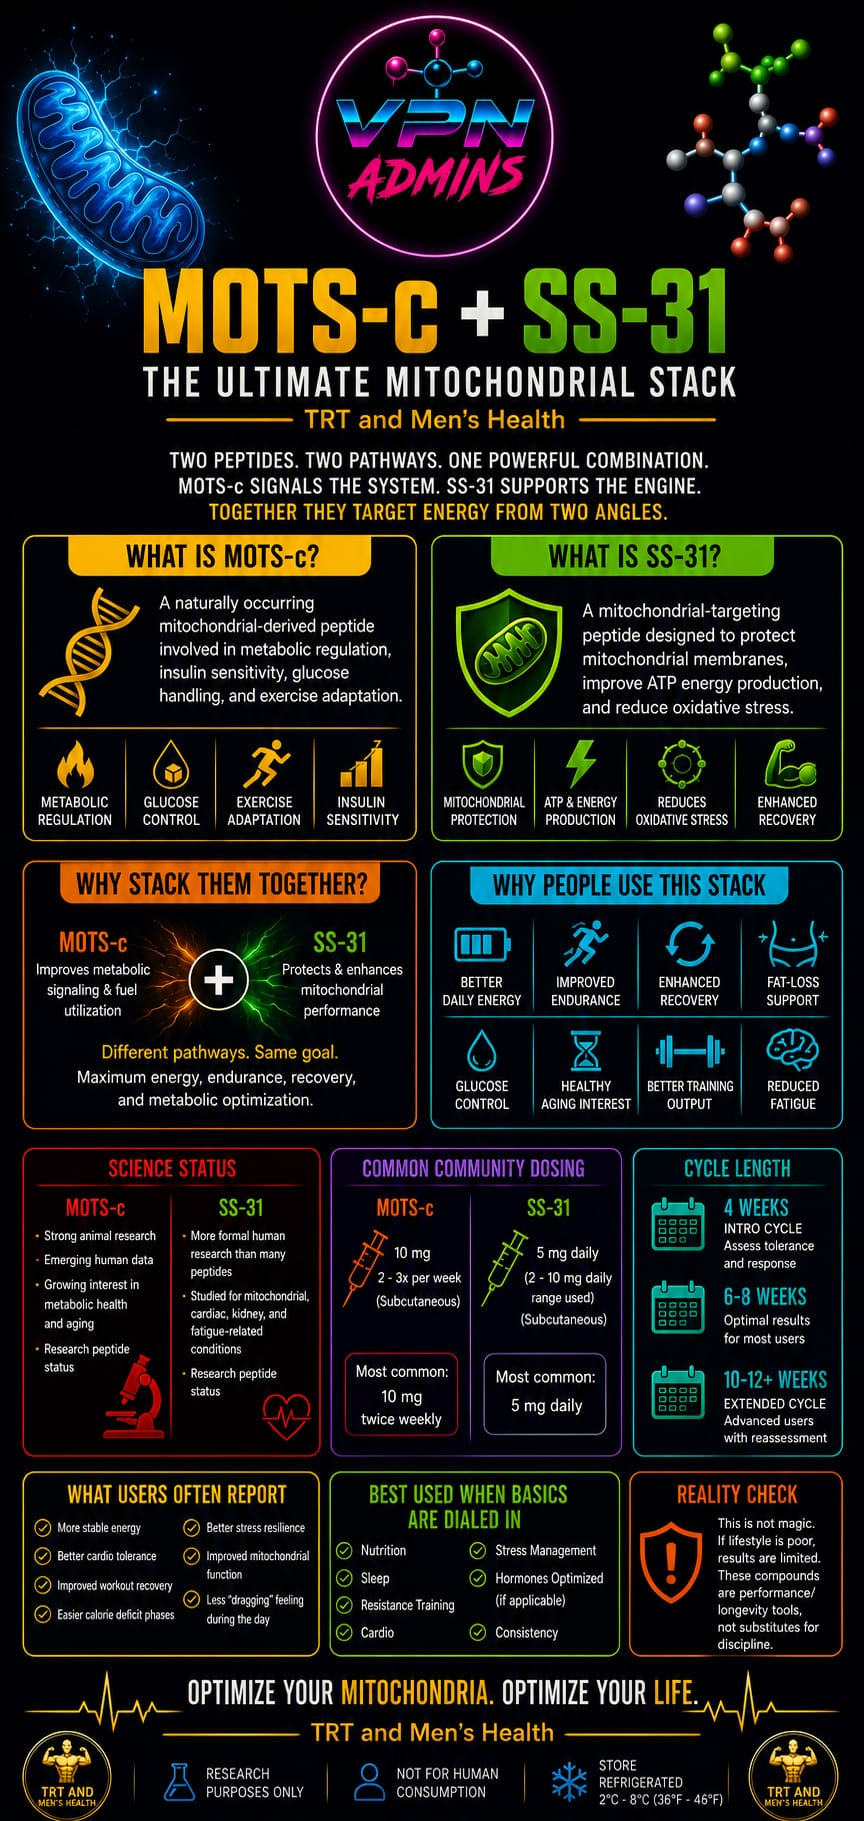
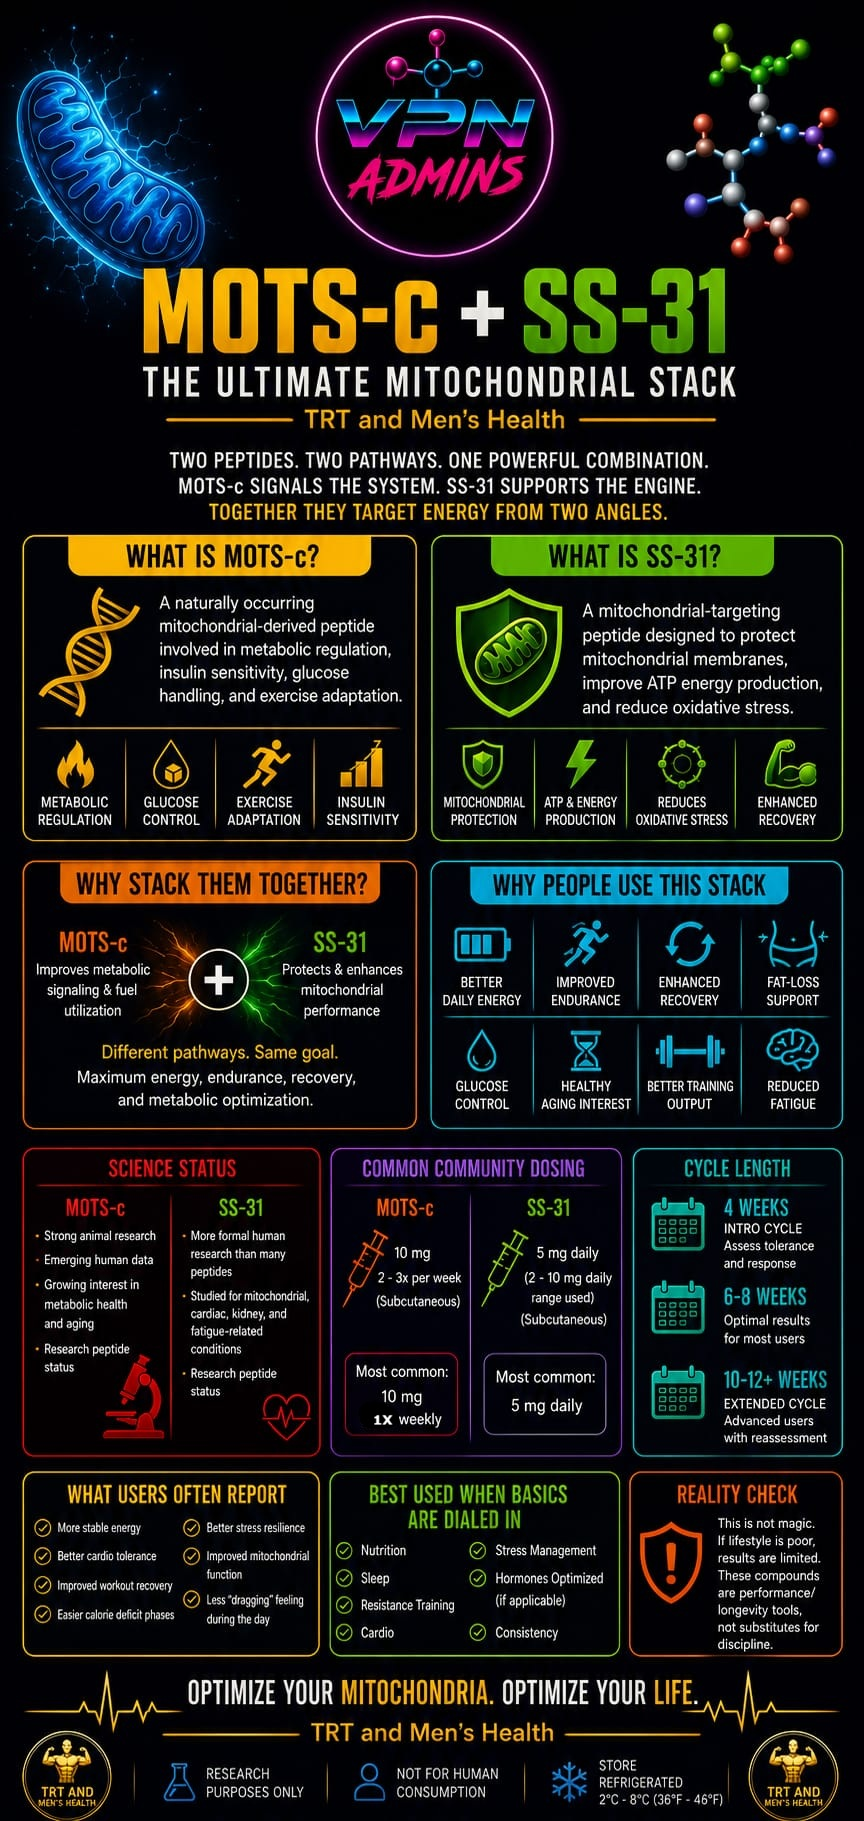
Add files via upload

Changed region(s): [[0.1562, 0.7996, 0.1875, 0.8303]]

diff --git a/index.html b/index.html
@@ -5418,7 +5418,7 @@ document.addEventListener('keydown', function(e){
           <div style="font-family:'Rajdhani',sans-serif;font-size:0.85rem;font-weight:600;color:rgba(255,180,200,0.6);margin-top:0.1rem;">Tirzepatide · Retatrutide · AOD · KLOW · Metabolic Playbook</div>
         </div>
       </div>
-      <span style="font-family:'Bebas Neue',sans-serif;font-size:0.85rem;color:rgba(255,45,120,0.7);flex-shrink:0;">▼ 9 SHEETS</span>
+      <span style="font-family:'Bebas Neue',sans-serif;font-size:0.85rem;color:rgba(255,45,120,0.7);flex-shrink:0;">▼ 8 SHEETS</span>
     </summary>
     <div style="padding:1rem 1.25rem;border-top:1px solid rgba(255,45,120,0.15);">
       <div style="display:grid;grid-template-columns:repeat(auto-fill,minmax(240px,1fr));gap:0.85rem;">
@@ -5495,82 +5495,7 @@ document.addEventListener('keydown', function(e){
           </div>
         </div>
 
-        <div style="background:var(--card-bg);border:1px solid var(--card-border);border-top:3px solid var(--neon-cyan);overflow:hidden;">
-          <div style="padding:0.6rem 1rem;border-bottom:1px solid var(--card-border);display:flex;justify-content:space-between;align-items:center;">
-            <div style="font-family:'Bebas Neue',sans-serif;font-size:0.95rem;letter-spacing:0.08em;color:var(--neon-cyan);">Retatrutide Phase 3 Results</div>
-            <a href="cheatsheet/retatrutide-phase3.png" download style="font-family:'Bebas Neue',sans-serif;font-size:0.75rem;letter-spacing:0.06em;padding:0.2rem 0.6rem;border:1px solid var(--neon-cyan);color:var(--neon-cyan);text-decoration:none;background:rgba(0,0,0,0.3);">⬇ Save</a>
-          </div>
-          <div style="cursor:zoom-in;" onclick="openLightbox('cheatsheet/retatrutide-phase3.png','Retatrutide Phase 3 Results')">
-            <img src="cheatsheet/retatrutide-phase3.png" alt="Retatrutide Phase 3 Results" style="width:100%;display:block;object-fit:contain;" title="Click to zoom">
-          </div>
-        </div>
 
-
-
-        <div style="background:var(--card-bg);border:1px solid var(--card-border);border-top:3px solid #00ff64;overflow:hidden;">
-          <div style="padding:0.6rem 1rem;border-bottom:1px solid var(--card-border);display:flex;justify-content:space-between;align-items:center;">
-            <div style="font-family:'Bebas Neue',sans-serif;font-size:0.95rem;letter-spacing:0.08em;color:#00ff64;">Tirzepatide Safe Titration Guide</div>
-            <a href="cheatsheet/tirz-safe-titration.png" download style="font-family:'Bebas Neue',sans-serif;font-size:0.75rem;letter-spacing:0.06em;padding:0.2rem 0.6rem;border:1px solid #00ff64;color:#00ff64;text-decoration:none;background:rgba(0,0,0,0.3);">⬇ Save</a>
-          </div>
-          <div style="cursor:zoom-in;" onclick="openLightbox('cheatsheet/tirz-safe-titration.png','Tirzepatide Safe Titration Guide')">
-            <img src="cheatsheet/tirz-safe-titration.png" alt="Tirzepatide Safe Titration Guide" style="width:100%;display:block;object-fit:contain;" title="Click to zoom">
-          </div>
-        </div>
-        <div style="background:var(--card-bg);border:1px solid var(--card-border);border-top:3px solid var(--neon-pink);overflow:hidden;">
-          <div style="padding:0.6rem 1rem;border-bottom:1px solid var(--card-border);display:flex;justify-content:space-between;align-items:center;">
-            <div style="font-family:'Bebas Neue',sans-serif;font-size:0.95rem;letter-spacing:0.08em;color:var(--neon-pink);">Tirzepatide Appetite Guide</div>
-            <a href="cheatsheet/tirz-appetite-guide.png" download style="font-family:'Bebas Neue',sans-serif;font-size:0.75rem;letter-spacing:0.06em;padding:0.2rem 0.6rem;border:1px solid var(--neon-pink);color:var(--neon-pink);text-decoration:none;background:rgba(0,0,0,0.3);">⬇ Save</a>
-          </div>
-          <div style="cursor:zoom-in;" onclick="openLightbox('cheatsheet/tirz-appetite-guide.png','Tirzepatide Appetite Guide')">
-            <img src="cheatsheet/tirz-appetite-guide.png" alt="Tirzepatide Appetite Guide" style="width:100%;display:block;object-fit:contain;" title="Click to zoom">
-          </div>
-        </div>
-        <div style="background:var(--card-bg);border:1px solid var(--card-border);border-top:3px solid var(--neon-cyan);overflow:hidden;">
-          <div style="padding:0.6rem 1rem;border-bottom:1px solid var(--card-border);display:flex;justify-content:space-between;align-items:center;">
-            <div style="font-family:'Bebas Neue',sans-serif;font-size:0.95rem;letter-spacing:0.08em;color:var(--neon-cyan);">Starting Tirzepatide After Switching From Retatrutide</div>
-            <a href="cheatsheet/tirz-switch-from-reta.png" download style="font-family:'Bebas Neue',sans-serif;font-size:0.75rem;letter-spacing:0.06em;padding:0.2rem 0.6rem;border:1px solid var(--neon-cyan);color:var(--neon-cyan);text-decoration:none;background:rgba(0,0,0,0.3);">⬇ Save</a>
-          </div>
-          <div style="cursor:zoom-in;" onclick="openLightbox('cheatsheet/tirz-switch-from-reta.png','Starting Tirzepatide After Switching From Retatrutide')">
-            <img src="cheatsheet/tirz-switch-from-reta.png" alt="Starting Tirzepatide After Switching From Retatrutide" style="width:100%;display:block;object-fit:contain;" title="Click to zoom">
-          </div>
-        </div>
-        <div style="background:var(--card-bg);border:1px solid var(--card-border);border-top:3px solid var(--neon-cyan);overflow:hidden;">
-          <div style="padding:0.6rem 1rem;border-bottom:1px solid var(--card-border);display:flex;justify-content:space-between;align-items:center;">
-            <div style="font-family:'Bebas Neue',sans-serif;font-size:0.95rem;letter-spacing:0.08em;color:var(--neon-cyan);">Retatrutide Phase 3 Results</div>
-            <a href="cheatsheet/retatrutide-phase3.png" download style="font-family:'Bebas Neue',sans-serif;font-size:0.75rem;letter-spacing:0.06em;padding:0.2rem 0.6rem;border:1px solid var(--neon-cyan);color:var(--neon-cyan);text-decoration:none;background:rgba(0,0,0,0.3);">⬇ Save</a>
-          </div>
-          <div style="cursor:zoom-in;" onclick="openLightbox('cheatsheet/retatrutide-phase3.png','Retatrutide Phase 3 Results')">
-            <img src="cheatsheet/retatrutide-phase3.png" alt="Retatrutide Phase 3 Results" style="width:100%;display:block;object-fit:contain;" title="Click to zoom">
-          </div>
-        </div>
-        <div style="background:var(--card-bg);border:1px solid var(--card-border);border-top:3px solid var(--neon-cyan);overflow:hidden;">
-          <div style="padding:0.6rem 1rem;border-bottom:1px solid var(--card-border);display:flex;justify-content:space-between;align-items:center;">
-            <div style="font-family:'Bebas Neue',sans-serif;font-size:0.95rem;letter-spacing:0.08em;color:var(--neon-cyan);">Why Sugar Cravings Can Happen on Tirz or Reta</div>
-            <a href="cheatsheet/sugar-cravings-tirz-reta.png" download style="font-family:'Bebas Neue',sans-serif;font-size:0.75rem;letter-spacing:0.06em;padding:0.2rem 0.6rem;border:1px solid var(--neon-cyan);color:var(--neon-cyan);text-decoration:none;background:rgba(0,0,0,0.3);">⬇ Save</a>
-          </div>
-          <div style="cursor:zoom-in;" onclick="openLightbox('cheatsheet/sugar-cravings-tirz-reta.png','Why Sugar Cravings Can Happen on Tirzepatide or Retatrutide')">
-            <img src="cheatsheet/sugar-cravings-tirz-reta.png" alt="Why Sugar Cravings Can Happen on Tirz or Reta" style="width:100%;display:block;object-fit:contain;" title="Click to zoom">
-          </div>
-        </div>
-        <div style="background:var(--card-bg);border:1px solid var(--card-border);border-top:3px solid #ffe600;overflow:hidden;">
-          <div style="padding:0.6rem 1rem;border-bottom:1px solid var(--card-border);display:flex;justify-content:space-between;align-items:center;">
-            <div style="font-family:'Bebas Neue',sans-serif;font-size:0.95rem;letter-spacing:0.08em;color:#ffe600;">When You May Need to Eat More on Tirz or Reta</div>
-            <a href="cheatsheet/when-to-eat-more-tirz-reta.png" download style="font-family:'Bebas Neue',sans-serif;font-size:0.75rem;letter-spacing:0.06em;padding:0.2rem 0.6rem;border:1px solid #ffe600;color:#ffe600;text-decoration:none;background:rgba(0,0,0,0.3);">⬇ Save</a>
-          </div>
-          <div style="cursor:zoom-in;" onclick="openLightbox('cheatsheet/when-to-eat-more-tirz-reta.png','When You May Need to Eat More on Tirzepatide or Retatrutide')">
-            <img src="cheatsheet/when-to-eat-more-tirz-reta.png" alt="When You May Need to Eat More on Tirz or Reta" style="width:100%;display:block;object-fit:contain;" title="Click to zoom">
-          </div>
-        </div>
-        <div style="background:var(--card-bg);border:1px solid var(--card-border);border-top:3px solid #cc44ff;overflow:hidden;">
-          <div style="padding:0.6rem 1rem;border-bottom:1px solid var(--card-border);display:flex;justify-content:space-between;align-items:center;">
-            <div style="font-family:'Bebas Neue',sans-serif;font-size:0.95rem;letter-spacing:0.08em;color:#cc44ff;">Berberine — Natural Support for Insulin Resistance</div>
-            <a href="cheatsheet/berberine-guide.png" download style="font-family:'Bebas Neue',sans-serif;font-size:0.75rem;letter-spacing:0.06em;padding:0.2rem 0.6rem;border:1px solid #cc44ff;color:#cc44ff;text-decoration:none;background:rgba(0,0,0,0.3);">⬇ Save</a>
-          </div>
-          <div style="cursor:zoom-in;" onclick="openLightbox('cheatsheet/berberine-guide.png','Berberine — Natural Support for Insulin Resistance & Metabolic Health')">
-            <img src="cheatsheet/berberine-guide.png" alt="Berberine — Natural Support for Insulin Resistance" style="width:100%;display:block;object-fit:contain;" title="Click to zoom">
-          </div>
-        </div>
-      </div>
     </div>
   </details>
 
@@ -5578,7 +5503,7 @@ document.addEventListener('keydown', function(e){
   <details style="background:#0e0204;border:1px solid rgba(255,107,0,0.3);border-left:4px solid var(--neon-orange);margin-bottom:0.85rem;">
     <summary style="cursor:pointer;padding:1rem 1.25rem;list-style:none;display:flex;align-items:center;justify-content:space-between;gap:1rem;user-select:none;">
       <div style="display:flex;align-items:center;gap:0.75rem;">
-        <span style="font-size:1.5rem;">U0001f3e5</span>
+        <span style="font-size:1.5rem;">🏥</span>
         <div>
           <div style="font-family:'Bebas Neue',sans-serif;font-size:1.1rem;letter-spacing:0.12em;color:var(--neon-orange);">GLP-1 Health, Safety &amp; Education</div>
           <div style="font-family:'Rajdhani',sans-serif;font-size:0.85rem;font-weight:600;color:rgba(255,180,120,0.6);margin-top:0.1rem;">Warning Signs · Pain Areas · Headaches · Body Composition · Mindset</div>
@@ -6034,7 +5959,7 @@ document.addEventListener('keydown', function(e){
           <div style="font-family:'Rajdhani',sans-serif;font-size:0.85rem;font-weight:600;color:rgba(255,180,200,0.6);margin-top:0.1rem;">Peptide Playbook · Community Charts</div>
         </div>
       </div>
-      <span style="font-family:'Bebas Neue',sans-serif;font-size:0.85rem;color:rgba(255,45,120,0.7);flex-shrink:0;">▼ 4 SHEETS</span>
+      <span style="font-family:'Bebas Neue',sans-serif;font-size:0.85rem;color:rgba(255,45,120,0.7);flex-shrink:0;">▼ 3 SHEETS</span>
     </summary>
     <div style="padding:1rem 1.25rem;border-top:1px solid rgba(255,45,120,0.15);">
       <div style="display:grid;grid-template-columns:repeat(auto-fill,minmax(240px,1fr));gap:0.85rem;">
@@ -6047,16 +5972,7 @@ document.addEventListener('keydown', function(e){
             <img src="cheatsheet/playbookguide.jpg" alt="The Peptide Tactical Playbook" style="width:100%;display:block;object-fit:contain;" title="Click to zoom">
           </div>
         </div>
-        <div style="background:var(--card-bg);border:1px solid var(--card-border);border-top:3px solid var(--neon-orange);overflow:hidden;">
-          <div style="padding:0.6rem 1rem;border-bottom:1px solid var(--card-border);display:flex;justify-content:space-between;align-items:center;">
-            <div style="font-family:'Bebas Neue',sans-serif;font-size:0.95rem;letter-spacing:0.08em;color:var(--neon-orange);">Community Reference Chart</div>
-            <a href="cheatsheet/ca0705c93f0fa93db1d3152f053bd7d6.png" download style="font-family:'Bebas Neue',sans-serif;font-size:0.75rem;letter-spacing:0.06em;padding:0.2rem 0.6rem;border:1px solid var(--neon-orange);color:var(--neon-orange);text-decoration:none;background:rgba(0,0,0,0.3);">⬇ Save</a>
-          </div>
-          <div style="cursor:zoom-in;" onclick="openLightbox('cheatsheet/ca0705c93f0fa93db1d3152f053bd7d6.png','Community Reference Chart')">
-            <img src="cheatsheet/ca0705c93f0fa93db1d3152f053bd7d6.png" alt="Community Reference Chart" style="width:100%;display:block;object-fit:contain;" title="Click to zoom">
-          </div>
-        </div>
-      </div>
+
     </div>
   </details>
 